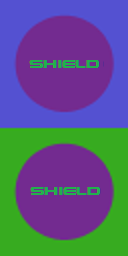
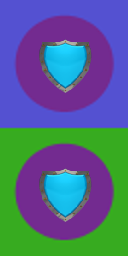
Module: Shield (v1)

Changed region(s): [[0.2188, 0.6562, 0.7812, 0.875], [0.2188, 0.1562, 0.7812, 0.375]]

diff --git a/Unstable/StarFighter/StarFighter/GameObject.cpp b/Unstable/StarFighter/StarFighter/GameObject.cpp
@@ -60,13 +60,13 @@ void GameObject::setAnimationLine(int animation, bool keep_frame_index)
 
 void GameObject::Init(sf::Vector2f position, sf::Vector2f speed, sf::Texture *texture, int frameNumber, int animationNumber)
 {
-	this->m_animationNumber = animationNumber;
-	this->m_frameNumber = frameNumber;
-	this->m_initial_position = sf::Vector2f(position.x, position.y);
-	this->m_size.x = ((*texture).getSize().x / frameNumber);
-	this->m_size.y = ((*texture).getSize().y / animationNumber);
+	m_animationNumber = animationNumber;
+	m_frameNumber = frameNumber;
+	m_initial_position = sf::Vector2f(position.x, position.y);
+	m_size.x = ((*texture).getSize().x / frameNumber);
+	m_size.y = ((*texture).getSize().y / animationNumber);
 
-	this->m_collider_type = GameObjectType::BackgroundObject;
+	m_collider_type = GameObjectType::BackgroundObject;
 	this->defaultAnimation.setSpriteSheet(*texture);
 	for (int j = 0; j < animationNumber; j++)
 	{
@@ -78,18 +78,19 @@ void GameObject::Init(sf::Vector2f position, sf::Vector2f speed, sf::Texture *te
 		}
 	}
 	
-	this->setAnimationLine(0);//default starting animation is line 0 (top of the sprite sheet)
+	setAnimationLine(0);//default starting animation is line 0 (top of the sprite sheet)
 	
-	this->m_speed = speed;
-	this->setPosition(position.x, position.y);
-	this->m_visible = true;
-	this->m_isOnScene = false;
-	this->m_GarbageMe = false;
-	this->m_DontGarbageMe = false;
-	this->m_diag = (float)sqrt(((m_size.x / 2)*(m_size.x / 2)) + ((m_size.y / 2)*(m_size.y / 2)));
-	this->m_ghost = false;
-	this->m_under_construction = false;
-	this->m_rotation_speed = 0.f;
+	m_speed = speed;
+	setPosition(position.x, position.y);
+	m_visible = true;
+	m_isOnScene = false;
+	m_GarbageMe = false;
+	m_DontGarbageMe = false;
+	m_diag = (float)sqrt(((m_size.x / 2)*(m_size.x / 2)) + ((m_size.y / 2)*(m_size.y / 2)));
+	m_ghost = false;
+	m_under_construction = false;
+	m_rotation_speed = 0.f;
+	m_target = NULL;
 }
 
 void GameObject::Init(sf::Vector2f position, sf::Vector2f speed, std::string textureName, sf::Vector2f size, int frameNumber, int animationNumber)
@@ -443,7 +444,13 @@ int GameObject::GaussianBlurDistribution(int x)
 //FLUX SPECIFIC
 void GameObject::GetFluxor(GameObject* object)
 {
-	//see override function in class Ship and class Module
+	//see override function in class Ship, Glow, and Module
+
+	//here we deal with Shields objects
+	if (m_target)
+	{
+		m_target->GetFluxor(object);//see override in class Module
+	}
 }
 
 void GameObject::GetModule(GameObject* object)

diff --git a/Unstable/StarFighter/StarFighter/Module.cpp b/Unstable/StarFighter/StarFighter/Module.cpp
@@ -27,8 +27,10 @@ void Module::Initialize()
 	m_add_flux = 0;
 	m_isAutogeneratingFlux = false;
 	m_turret_range = 0;
+	m_shield_range = 0;
 	m_upgrade_player_stats = false;
 	m_isCondensatingFluxor = false;
+	m_shield = NULL;
 
 	//Flux display
 	m_flux_text = new SFText(((*CurrentGame).font2), 20, sf::Color::Green, sf::Vector2f(getPosition().x, getPosition().y + m_size.y / 2 + MODULE_FLUX_DISPLAY_OFFSET_Y), m_team);
@@ -221,6 +223,9 @@ Module::Module(ModuleType moduleType, PlayerTeams team)
 		{
 			m_flux_max_under_construction = 20;
 			m_flux_max_after_construction = 100;
+			m_shield_range = 1;
+			m_isAutogeneratingFlux = true;
+			m_flux_autogeneration_time = 1.f;
 			break;
 		}
 		case ModuleType_Turret:
@@ -442,6 +447,11 @@ Module::~Module()
 		m_tile_child_feedback->m_visible = false;
 		m_tile_child_feedback->m_GarbageMe = true;
 	}
+	if (m_shield)
+	{
+		m_shield->m_visible = false;
+		m_shield->m_GarbageMe = true;
+	}
 
 	//updating grid knowledge
 	if ((*CurrentGame).m_module_grid[m_curGridIndex.x][m_curGridIndex.y])
@@ -536,6 +546,16 @@ void Module::update(sf::Time deltaTime)
 	if (m_team_marker)
 	{
 		m_team_marker->setFrame(m_under_construction, true);
+	}
+
+	//shield?
+	if (m_shield_range > 0 && m_flux > 0 && !m_under_construction && !m_shield)
+	{
+		m_shield = new GameObject(getPosition(), sf::Vector2f(0, 0), "Assets/2D/shield.png", sf::Vector2f(384, 384));
+		sf::Color color = (*CurrentGame).m_team_colors[m_team];
+		m_shield->setColor(Color(color.r, color.g, color.b, 70));
+		m_shield->m_target = this;
+		(*CurrentGame).addToScene(m_shield, ShieldLayer, ShieldObject);
 	}
 
 	GameObject::update(deltaTime);

diff --git a/Unstable/StarFighter/StarFighter/Game.cpp b/Unstable/StarFighter/StarFighter/Game.cpp
@@ -435,6 +435,19 @@ void Game::colisionChecksV2()
 		if (*it1 == NULL)
 			continue;
 
+		//Fluxors interactions with Shields (before interacting with Modules).
+		for (std::vector<GameObject*>::iterator it2 = sceneGameObjectsTyped[ShieldObject].begin(); it2 != sceneGameObjectsTyped[ShieldObject].end(); it2++)
+		{
+			if (*it2 == NULL)
+				continue;
+
+			if (SimpleCollision::AreColliding((*it1), (*it2)))
+			{
+				//Do something 
+				(*it2)->GetFluxor(*it1);
+			}
+		}
+
 		//Fluxors interactions with Modules
 		for (std::vector<GameObject*>::iterator it2 = sceneGameObjectsTyped[ModuleObject].begin(); it2 != sceneGameObjectsTyped[ModuleObject].end(); it2++)
 		{

diff --git a/Unstable/StarFighter/StarFighter/GameObject.h b/Unstable/StarFighter/StarFighter/GameObject.h
@@ -18,10 +18,10 @@ enum LayerType {
 	FakeGridLayer,
 	GridFeedbackLayer,
 	ModuleLayer,
+	ShieldLayer,
 	TeamMarkerLayer,
 	GlowLayer,
 	FluxorLayer,
-	PortalLayer,
 	PlayerStroboscopicLayer,
 	ExplosionLayer,
 	EnemyObjectLayer,
@@ -37,7 +37,7 @@ enum LayerType {
 
 enum GameObjectType {
 	BackgroundObject,
-	PortalObject,
+	ShieldObject,
 	ModuleObject,
 	FluxorUnguidedObject,
 	FluxorGuidedObject,
@@ -129,6 +129,7 @@ public:
 	virtual void GetFluxor(GameObject* object);
 	virtual void GetModule(GameObject* object);
 	virtual void ResolveProductionBufferList();
+	GameObject* m_target;
 
 protected:
 	Animation defaultAnimation;

diff --git a/Unstable/StarFighter/StarFighter/Module.h b/Unstable/StarFighter/StarFighter/Module.h
@@ -58,6 +58,7 @@ public :
 	Glow* m_glow;
 	void SetConstructionStatus(bool under_construction);
 	sf::Clock m_construction_clock;
+	GameObject* m_shield;
 
 	//vector<Module*> m_parents;
 	//vector<Module*> m_children;
@@ -68,6 +69,7 @@ public :
 	int m_add_speed;
 	int m_add_flux;
 	unsigned int m_turret_range;
+	unsigned int m_shield_range;
 	Fluxor* SearchNearbyAttackers(PlayerTeams team_not_to_target, float range);
 	bool m_upgrade_player_stats;
 

diff --git a/Unstable/StarFighter/StarFighter/Game.h b/Unstable/StarFighter/StarFighter/Game.h
@@ -41,11 +41,11 @@ enum ModuleType
 	ModuleType_Amplifier,
 	ModuleType_Factory,
 	ModuleType_Factory_Up,
-	ModuleType_Turret,
+	ModuleType_Shield,
 	ModuleType_Barrier,
 	ModuleType_Armory,
 	ModuleType_Battery,
-	ModuleType_Shield,
+	ModuleType_Turret,
 	NBVAL_ModuleType,
 };
 
